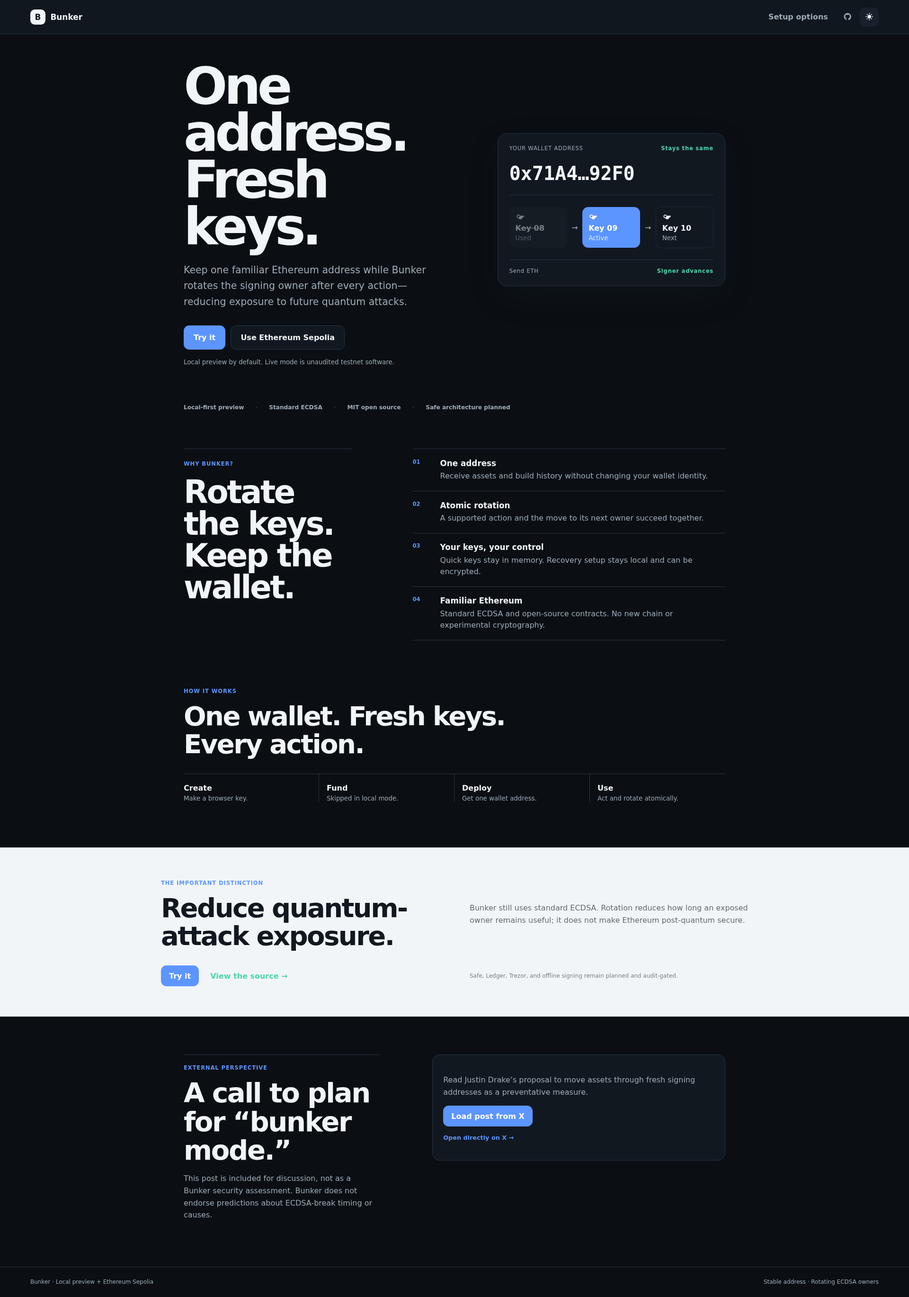
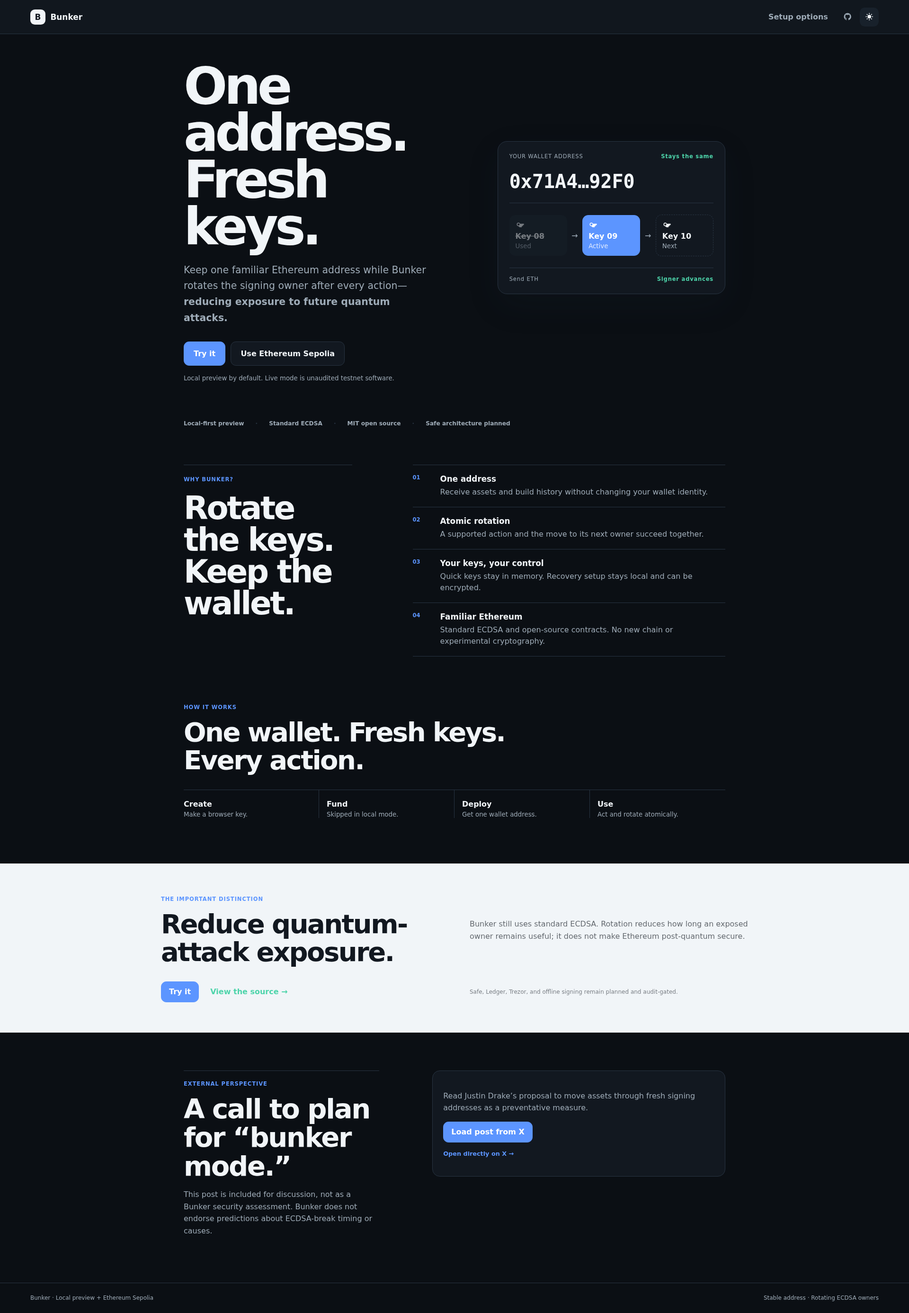
Compact wallet header and improve address copy

diff --git a/apps/web/src/styles.css b/apps/web/src/styles.css
@@ -1,1 +1,1 @@
-:root{font-family:ui-sans-serif,-apple-system,BlinkMacSystemFont,"Segoe UI",sans-serif;font-synthesis:none;color-scheme:light;background:#f5f7fa}*{box-sizing:border-box}body{margin:0}button,input,textarea{font:inherit}.site{--bg:#f5f7fa;--surface:#fff;--soft:#eef2f6;--line:#dce2e9;--text:#101820;--muted:#63707c;--accent:#146bff;--mint:#18b889;--ink:#fff;min-height:100vh;background:var(--bg);color:var(--text)}.site.dark{--bg:#0b0f14;--surface:#121820;--soft:#18212b;--line:#283442;--text:#f1f5f8;--muted:#9eabb7;--accent:#5c95ff;--mint:#4dd4aa;--ink:#071018;color-scheme:dark}::selection{background:var(--accent);color:#fff}button{border:1px solid var(--line);background:var(--surface);color:var(--text);border-radius:.7rem;padding:.72rem 1rem;font-weight:650;cursor:pointer}button:hover:not(:disabled){border-color:var(--accent)}button:disabled{opacity:.48;cursor:not-allowed}button:focus-visible,input:focus-visible,textarea:focus-visible,a:focus-visible{outline:3px solid var(--accent);outline-offset:2px}.primary{background:var(--accent);border-color:var(--accent);color:#fff}.wide{width:100%;padding:.95rem}.top{height:72px;display:flex;align-items:center;padding:0 clamp(1rem,4vw,4rem);border-bottom:1px solid var(--line);background:color-mix(in srgb,var(--surface),transparent 8%);position:relative;z-index:2}.brand{border:0;background:transparent;padding:0;display:flex;align-items:center;gap:.65rem;font-size:1.06rem}.brand span{display:grid;place-items:center;width:32px;height:32px;border-radius:.6rem;background:var(--text);color:var(--surface);font-weight:900}.top nav{margin-left:auto;display:flex;align-items:center;gap:.35rem}.top nav button{border:0;background:transparent;color:var(--muted)}.top nav button:hover{color:var(--text);background:var(--soft)}.nav-icon{width:2.5rem;height:2.5rem;padding:0;border:1px solid transparent;border-radius:.65rem;display:grid;place-items:center;color:var(--muted);background:transparent}.nav-icon:hover{color:var(--text);background:var(--soft);border-color:var(--line)}.nav-icon svg{width:1.15rem;height:1.15rem;fill:currentColor}.toast{position:fixed;top:84px;left:50%;transform:translateX(-50%);z-index:10;background:var(--text);color:var(--surface);padding:.75rem 1rem;border-radius:2rem;box-shadow:0 12px 35px rgba(0,0,0,.16);font-size:.86rem;max-width:calc(100vw - 2rem)}main{min-height:calc(100vh - 136px)}.hero-new{max-width:1240px;margin:auto;padding:clamp(1rem,2.5vw,2.5rem) clamp(1rem,4vw,3rem) 5rem;display:grid;grid-template-columns:1fr .9fr;gap:clamp(3rem,8vw,8rem);align-items:center}.status-dot{display:inline-flex;align-items:center;gap:.45rem;color:var(--mint);font-size:.78rem;font-weight:750;text-transform:uppercase;letter-spacing:.08em}.status-dot:before{content:"";width:7px;height:7px;border-radius:50%;background:var(--mint)}h1,h2,p{margin-top:0}.hero-copy h1{font-size:clamp(3.5rem,7vw,6.8rem);line-height:.91;letter-spacing:-.065em;margin:1.25rem 0 1.6rem;max-width:10ch}.hero-copy>p{font-size:clamp(1.05rem,1.6vw,1.28rem);line-height:1.65;color:var(--muted);max-width:590px}.hero-actions,.secure-actions,.setup-actions{display:flex;gap:.7rem;flex-wrap:wrap;margin:2rem 0 1rem}.hero-actions button{padding:.95rem 1.25rem}.hero-copy>small{color:var(--muted)}.mechanism{background:var(--surface);border:1px solid var(--line);border-radius:1.25rem;padding:1.5rem;box-shadow:0 24px 70px rgba(34,51,68,.1)}.address-head,.action-line{display:flex;justify-content:space-between;gap:1rem;font-size:.72rem;color:var(--muted);letter-spacing:.07em}.address-head b,.action-line b{color:var(--mint)}.mechanism>code{display:block;font:700 clamp(1.5rem,3vw,2.5rem)/1 ui-monospace,SFMono-Regular,monospace;padding:1.6rem 0;border-bottom:1px solid var(--line)}.key-track{display:grid;grid-template-columns:1fr auto 1fr auto 1fr;align-items:center;gap:.6rem;padding:1.5rem 0}.key{display:grid;gap:.25rem;padding:.8rem;border-radius:.8rem;background:var(--soft)}.key svg{width:20px;fill:currentColor}.key span{font-weight:750}.key small{color:var(--muted)}.key.spent{opacity:.45}.key.spent span{text-decoration:line-through}.key.active{background:var(--accent);color:#fff}.key.active small{color:#dfeaff}.key.next{border:1px dashed var(--line);background:transparent}.key-track>i{font-style:normal;color:var(--muted)}.action-line{padding-top:1rem;border-top:1px solid var(--line)}.button-link{display:inline-flex;align-items:center;border:1px solid var(--line);background:var(--surface);color:var(--text);border-radius:.7rem;padding:.95rem 1.25rem;font-weight:650;text-decoration:none}.button-link:hover{border-color:var(--accent)}.trust-line{max-width:1240px;margin:auto;padding:0 clamp(1rem,4vw,3rem) 5rem;display:flex;gap:1.5rem;flex-wrap:wrap;color:var(--muted);font-size:.76rem;font-weight:700}.trust-line span+span:before{content:"·";margin-right:1.5rem;color:var(--line)}.why{max-width:1240px;margin:auto;padding:0 clamp(1rem,4vw,3rem) 6rem;display:grid;grid-template-columns:.7fr 1.3fr;gap:clamp(3rem,8vw,8rem)}.why-head{border-top:1px solid var(--line);padding-top:1.2rem}.why-head>span,.roadmap span{color:var(--accent);font-size:.72rem;font-weight:750;text-transform:uppercase;letter-spacing:.08em}.why-head h2{font-size:clamp(2.2rem,4vw,4.2rem);line-height:1;letter-spacing:-.05em;margin:1.2rem 0}.why-list{border-top:1px solid var(--line)}.why-list article{display:grid;grid-template-columns:42px 1fr;gap:1rem;padding:1.2rem 0;border-bottom:1px solid var(--line)}.why-list article>b{color:var(--accent);font-size:.72rem}.why-list h3{margin:0 0 .35rem;font-size:1.05rem}.why-list p{margin:0;color:var(--muted);line-height:1.5}.flow{max-width:1240px;margin:auto;padding:0 clamp(1rem,4vw,3rem) 6rem}.flow>span{color:var(--accent);font-size:.72rem;font-weight:750;text-transform:uppercase;letter-spacing:.08em}.flow h2{font-size:clamp(2rem,4vw,3.5rem);line-height:1.05;letter-spacing:-.045em;margin:1rem 0 2rem}.flow ol{list-style:none;margin:0;padding:0;display:grid;grid-template-columns:repeat(4,1fr);border-top:1px solid var(--line)}.flow li{padding:1.25rem 1rem 0 0;border-right:1px solid var(--line);display:grid;gap:.35rem}.flow li+li{padding-left:1rem}.flow li:last-child{border:0}.flow small{color:var(--muted)}.roadmap{background:var(--text);color:var(--surface);padding:4rem max(clamp(1rem,8vw,8rem),calc((100vw - 1240px)/2));display:grid;grid-template-columns:1fr 1fr;gap:2rem 4rem;align-items:center}.roadmap h2{font-size:clamp(2rem,4vw,3.5rem);line-height:1.05;letter-spacing:-.045em;margin:1rem 0 0}.roadmap p{color:color-mix(in srgb,var(--surface),transparent 35%);line-height:1.6;margin:0}.roadmap-links{display:flex;align-items:center;gap:1.5rem}.roadmap a{color:var(--mint);font-weight:750;text-decoration:none;white-space:nowrap}.roadmap>small{color:color-mix(in srgb,var(--surface),transparent 45%);grid-column:2;font-size:.75rem}.external-post{max-width:1240px;margin:auto;padding:5rem clamp(1rem,4vw,3rem);display:grid;grid-template-columns:.8fr 1.2fr;gap:clamp(3rem,8vw,7rem);align-items:start}.post-context{border-top:1px solid var(--line);padding-top:1rem}.post-context>span{color:var(--accent);font-size:.72rem;font-weight:750;text-transform:uppercase;letter-spacing:.08em}.post-context h2{font-size:clamp(2rem,4vw,3.6rem);line-height:1.05;letter-spacing:-.04em;margin:1rem 0}.post-context p,.post-embed p{color:var(--muted);line-height:1.6}.post-embed{min-height:14rem;background:var(--surface);border:1px solid var(--line);border-radius:1rem;padding:1.4rem;display:flex;flex-direction:column;align-items:flex-start;justify-content:center}.post-embed .twitter-tweet{margin:0 auto!important;width:100%!important}.post-link{margin-top:1rem;color:var(--accent);font-size:.8rem;font-weight:700;text-decoration:none}.setup,.advanced,.secure{width:min(720px,calc(100% - 2rem));margin:auto;padding:clamp(3rem,8vw,7rem) 0}.ephemeral-note{font-size:.8rem;color:var(--muted);border-left:1px solid var(--mint);padding-left:.8rem}.setup h1,.advanced h1,.secure h1{font-size:clamp(2.5rem,6vw,4.8rem);line-height:.98;letter-spacing:-.05em;margin:2rem 0 1rem}.stepper{display:grid;grid-template-columns:repeat(3,1fr);position:relative}.stepper:before{content:"";position:absolute;left:2rem;right:2rem;top:17px;height:1px;background:var(--line)}.stepper span{position:relative;display:grid;justify-items:center;gap:.5rem;color:var(--muted);font-size:.72rem}.stepper span:first-letter{background:var(--surface)}.stepper span b{font-size:.8rem}.stepper span.done{color:var(--mint)}.setup-address,.stable{margin:2rem 0;background:var(--surface);border:1px solid var(--line);border-radius:1rem;padding:1rem;display:grid;grid-template-columns:1fr auto;gap:.65rem;align-items:center}.setup-address span,.stable span{font-size:.75rem;color:var(--muted)}.setup-address code,.stable code{grid-column:1/2;overflow-wrap:anywhere;color:var(--accent)}.setup-address button{grid-row:1/3;grid-column:2}.balance-row{display:flex;justify-content:space-between;border-block:1px solid var(--line);padding:1.2rem 0}.setup-actions button{flex:1}.text-button,.back{border:0;background:transparent;color:var(--muted);padding-left:0}.wallet{max-width:1180px;margin:auto;padding:clamp(2.5rem,6vw,5rem) 1rem}.wallet-top{display:grid;grid-template-columns:1fr 340px;gap:2rem;align-items:end}.wallet-top h1{font-size:clamp(3.5rem,7vw,6rem);letter-spacing:-.06em;margin:1rem 0 .5rem}.address-copy{border:0;padding-left:0;background:transparent;color:var(--muted)}.spendable{display:block;color:var(--muted);margin-bottom:.6rem}.rotation-card{background:var(--text);color:var(--surface);padding:1.4rem;border-radius:1rem}.rotation-card>span{font-size:.68rem;letter-spacing:.1em}.rotation-card strong{display:block;font-size:2rem;margin:.5rem 0}.rotation-card p{color:color-mix(in srgb,var(--surface),transparent 35%);font-size:.8rem}.rotation-card>div{height:5px;background:color-mix(in srgb,var(--surface),transparent 80%);border-radius:5px}.rotation-card i{display:block;height:100%;background:var(--mint);border-radius:5px}.stable{grid-template-columns:1fr auto}.stable b{grid-row:1/3;grid-column:2;color:var(--mint);font-size:.75rem}.signer-sequence{margin:2rem 0;background:var(--surface);border:1px solid var(--line);border-radius:1rem;padding:1.15rem}.signer-sequence>div:first-child{display:flex;justify-content:space-between;gap:1rem}.signer-sequence span{font-weight:750}.signer-sequence small{color:var(--muted)}.signer-steps{display:grid;grid-template-columns:1fr auto 1fr auto 1fr;gap:.75rem;align-items:center;margin-top:1rem}.signer-steps>div{display:grid;gap:.35rem;padding:.8rem;border:1px solid var(--line);border-radius:.7rem}.signer-steps>.current{border-color:var(--accent);background:color-mix(in srgb,var(--accent),transparent 94%)}.signer-steps code{font-size:.8rem}.signer-steps i{font-style:normal;color:var(--muted)}.wallet-grid{display:grid;grid-template-columns:1.2fr .8fr;gap:2rem;margin-top:2rem}.actions-panel,.activity{background:var(--surface);border:1px solid var(--line);border-radius:1rem;padding:1.4rem}svg{width:18px;height:18px;fill:currentColor}.actions-panel h2,.activity h2{font-size:1.15rem;margin-bottom:.4rem}.history-intro{color:var(--muted);font-size:.82rem;line-height:1.45;margin:0 0 1rem}.actions-panel label{display:grid;gap:.45rem;margin:1rem 0;color:var(--muted);font-size:.78rem}.actions-panel input,.actions-panel textarea,.secure input,.secure textarea{width:100%;border:1px solid var(--line);background:var(--bg);color:var(--text);padding:.85rem;border-radius:.65rem}.split{display:grid;grid-template-columns:1fr 110px;gap:.7rem}.activity-row{display:grid;grid-template-columns:auto 1fr auto;gap:.8rem;align-items:start;padding:1rem 0;border-top:1px solid var(--line)}.activity-row>span{font-size:.65rem;background:var(--soft);padding:.3rem .45rem;border-radius:1rem;color:var(--muted)}.activity-row p{display:grid;gap:.25rem;margin:0}.activity-row code{font-size:.7rem;color:var(--muted);overflow-wrap:anywhere}.activity-row small{color:var(--muted)}.activity-row a{color:var(--accent);font-size:.75rem}.option-list{display:grid;margin-top:2.5rem;border-top:1px solid var(--line)}.option-list button{border:0;border-bottom:1px solid var(--line);border-radius:0;background:transparent;display:grid;grid-template-columns:1fr auto;text-align:left;padding:1.2rem 0}.option-list button span{font-size:1rem}.option-list button small{grid-row:2;color:var(--muted);font-weight:400}.option-list button b{grid-row:1/3;grid-column:2;align-self:center;color:var(--accent)}.words{list-style:none;display:grid;grid-template-columns:repeat(4,1fr);gap:1px;background:var(--line);padding:1px;margin:2rem 0}.words li{background:var(--surface);padding:.8rem;font-weight:700}.words span{display:block;color:var(--muted);font-size:.65rem}.check{display:flex;gap:.6rem;align-items:center;color:var(--muted)}.check input{width:auto}.confirm{display:grid;grid-template-columns:repeat(3,1fr);gap:.7rem}.secure label{display:grid;gap:.45rem;margin:1rem 0;color:var(--muted);font-size:.8rem}footer{height:64px;border-top:1px solid var(--line);display:flex;justify-content:space-between;align-items:center;padding:0 clamp(1rem,4vw,4rem);color:var(--muted);font-size:.75rem}@media(max-width:760px){.top{height:64px}.top nav>button:not(.nav-icon):not(.nav-exit){display:none}.hero-new{grid-template-columns:1fr;padding-top:1rem;gap:3rem}.hero-copy h1{font-size:3.8rem}.hero-actions{display:grid}.mechanism{padding:1rem}.key-track{gap:.3rem}.key{padding:.55rem}.key-track>i{display:none}.trust-line{display:grid;grid-template-columns:1fr 1fr;gap:.65rem 1rem}.trust-line span+span:before{content:none}.why{grid-template-columns:1fr;gap:1.5rem}.flow ol{grid-template-columns:1fr 1fr}.flow li{border-bottom:1px solid var(--line);border-right:0;padding:1rem 0}.flow li+li{padding-left:0}.roadmap{grid-template-columns:1fr;gap:1.5rem}.roadmap a{white-space:normal}.roadmap>small{grid-column:1}.external-post{grid-template-columns:1fr;gap:1.5rem;padding-top:4rem;padding-bottom:4rem}.post-embed{min-height:12rem}.wallet-top,.wallet-grid{grid-template-columns:1fr}.signer-sequence>div:first-child{display:grid}.signer-steps{grid-template-columns:1fr}.signer-steps i{transform:rotate(90deg);justify-self:center}.stable{grid-template-columns:1fr}.stable b{grid-row:auto;grid-column:1}.words{grid-template-columns:repeat(3,1fr)}.confirm{grid-template-columns:1fr}.setup-actions,.secure-actions{display:grid}.toast{top:72px}}@media(prefers-reduced-motion:reduce){*{scroll-behavior:auto!important;transition:none!important}}
+:root{font-family:ui-sans-serif,-apple-system,BlinkMacSystemFont,"Segoe UI",sans-serif;font-synthesis:none;color-scheme:light;background:#f5f7fa}*{box-sizing:border-box}body{margin:0}button,input,textarea{font:inherit}.site{--bg:#f5f7fa;--surface:#fff;--soft:#eef2f6;--line:#dce2e9;--text:#101820;--muted:#63707c;--accent:#146bff;--mint:#18b889;--ink:#fff;min-height:100vh;background:var(--bg);color:var(--text)}.site.dark{--bg:#0b0f14;--surface:#121820;--soft:#18212b;--line:#283442;--text:#f1f5f8;--muted:#9eabb7;--accent:#5c95ff;--mint:#4dd4aa;--ink:#071018;color-scheme:dark}::selection{background:var(--accent);color:#fff}button{border:1px solid var(--line);background:var(--surface);color:var(--text);border-radius:.7rem;padding:.72rem 1rem;font-weight:650;cursor:pointer}button:hover:not(:disabled){border-color:var(--accent)}button:disabled{opacity:.48;cursor:not-allowed}button:focus-visible,input:focus-visible,textarea:focus-visible,a:focus-visible{outline:3px solid var(--accent);outline-offset:2px}.primary{background:var(--accent);border-color:var(--accent);color:#fff}.wide{width:100%;padding:.95rem}.top{height:72px;display:flex;align-items:center;padding:0 clamp(1rem,4vw,4rem);border-bottom:1px solid var(--line);background:color-mix(in srgb,var(--surface),transparent 8%);position:relative;z-index:2}.brand{border:0;background:transparent;padding:0;display:flex;align-items:center;gap:.65rem;font-size:1.06rem}.brand span{display:grid;place-items:center;width:32px;height:32px;border-radius:.6rem;background:var(--text);color:var(--surface);font-weight:900}.top nav{margin-left:auto;display:flex;align-items:center;gap:.35rem}.top nav button{border:0;background:transparent;color:var(--muted)}.top nav button:hover{color:var(--text);background:var(--soft)}.nav-icon{width:2.5rem;height:2.5rem;padding:0;border:1px solid transparent;border-radius:.65rem;display:grid;place-items:center;color:var(--muted);background:transparent}.nav-icon:hover{color:var(--text);background:var(--soft);border-color:var(--line)}.nav-icon svg{width:1.15rem;height:1.15rem;fill:currentColor}.toast{position:fixed;top:84px;left:50%;transform:translateX(-50%);z-index:10;background:var(--text);color:var(--surface);padding:.75rem 1rem;border-radius:2rem;box-shadow:0 12px 35px rgba(0,0,0,.16);font-size:.86rem;max-width:calc(100vw - 2rem)}main{min-height:calc(100vh - 136px)}.hero-new{max-width:1240px;margin:auto;padding:clamp(1rem,2.5vw,2.5rem) clamp(1rem,4vw,3rem) 5rem;display:grid;grid-template-columns:1fr .9fr;gap:clamp(3rem,8vw,8rem);align-items:center}.status-dot{display:inline-flex;align-items:center;gap:.45rem;color:var(--mint);font-size:.78rem;font-weight:750;text-transform:uppercase;letter-spacing:.08em}.status-dot:before{content:"";width:7px;height:7px;border-radius:50%;background:var(--mint)}h1,h2,p{margin-top:0}.hero-copy h1{font-size:clamp(3.5rem,7vw,6.8rem);line-height:.91;letter-spacing:-.065em;margin:1.25rem 0 1.6rem;max-width:10ch}.hero-copy>p{font-size:clamp(1.05rem,1.6vw,1.28rem);line-height:1.65;color:var(--muted);max-width:590px}.hero-actions,.secure-actions,.setup-actions{display:flex;gap:.7rem;flex-wrap:wrap;margin:2rem 0 1rem}.hero-actions button{padding:.95rem 1.25rem}.hero-copy>small{color:var(--muted)}.mechanism{background:var(--surface);border:1px solid var(--line);border-radius:1.25rem;padding:1.5rem;box-shadow:0 24px 70px rgba(34,51,68,.1)}.address-head,.action-line{display:flex;justify-content:space-between;gap:1rem;font-size:.72rem;color:var(--muted);letter-spacing:.07em}.address-head b,.action-line b{color:var(--mint)}.mechanism>code{display:block;font:700 clamp(1.5rem,3vw,2.5rem)/1 ui-monospace,SFMono-Regular,monospace;padding:1.6rem 0;border-bottom:1px solid var(--line)}.key-track{display:grid;grid-template-columns:1fr auto 1fr auto 1fr;align-items:center;gap:.6rem;padding:1.5rem 0}.key{display:grid;gap:.25rem;padding:.8rem;border-radius:.8rem;background:var(--soft)}.key svg{width:20px;fill:currentColor}.key span{font-weight:750}.key small{color:var(--muted)}.key.spent{opacity:.45}.key.spent span{text-decoration:line-through}.key.active{background:var(--accent);color:#fff}.key.active small{color:#dfeaff}.key.next{border:1px dashed var(--line);background:transparent}.key-track>i{font-style:normal;color:var(--muted)}.action-line{padding-top:1rem;border-top:1px solid var(--line)}.button-link{display:inline-flex;align-items:center;border:1px solid var(--line);background:var(--surface);color:var(--text);border-radius:.7rem;padding:.95rem 1.25rem;font-weight:650;text-decoration:none}.button-link:hover{border-color:var(--accent)}.trust-line{max-width:1240px;margin:auto;padding:0 clamp(1rem,4vw,3rem) 5rem;display:flex;gap:1.5rem;flex-wrap:wrap;color:var(--muted);font-size:.76rem;font-weight:700}.trust-line span+span:before{content:"·";margin-right:1.5rem;color:var(--line)}.why{max-width:1240px;margin:auto;padding:0 clamp(1rem,4vw,3rem) 6rem;display:grid;grid-template-columns:.7fr 1.3fr;gap:clamp(3rem,8vw,8rem)}.why-head{border-top:1px solid var(--line);padding-top:1.2rem}.why-head>span,.roadmap span{color:var(--accent);font-size:.72rem;font-weight:750;text-transform:uppercase;letter-spacing:.08em}.why-head h2{font-size:clamp(2.2rem,4vw,4.2rem);line-height:1;letter-spacing:-.05em;margin:1.2rem 0}.why-list{border-top:1px solid var(--line)}.why-list article{display:grid;grid-template-columns:42px 1fr;gap:1rem;padding:1.2rem 0;border-bottom:1px solid var(--line)}.why-list article>b{color:var(--accent);font-size:.72rem}.why-list h3{margin:0 0 .35rem;font-size:1.05rem}.why-list p{margin:0;color:var(--muted);line-height:1.5}.flow{max-width:1240px;margin:auto;padding:0 clamp(1rem,4vw,3rem) 6rem}.flow>span{color:var(--accent);font-size:.72rem;font-weight:750;text-transform:uppercase;letter-spacing:.08em}.flow h2{font-size:clamp(2rem,4vw,3.5rem);line-height:1.05;letter-spacing:-.045em;margin:1rem 0 2rem}.flow ol{list-style:none;margin:0;padding:0;display:grid;grid-template-columns:repeat(4,1fr);border-top:1px solid var(--line)}.flow li{padding:1.25rem 1rem 0 0;border-right:1px solid var(--line);display:grid;gap:.35rem}.flow li+li{padding-left:1rem}.flow li:last-child{border:0}.flow small{color:var(--muted)}.roadmap{background:var(--text);color:var(--surface);padding:4rem max(clamp(1rem,8vw,8rem),calc((100vw - 1240px)/2));display:grid;grid-template-columns:1fr 1fr;gap:2rem 4rem;align-items:center}.roadmap h2{font-size:clamp(2rem,4vw,3.5rem);line-height:1.05;letter-spacing:-.045em;margin:1rem 0 0}.roadmap p{color:color-mix(in srgb,var(--surface),transparent 35%);line-height:1.6;margin:0}.roadmap-links{display:flex;align-items:center;gap:1.5rem}.roadmap a{color:var(--mint);font-weight:750;text-decoration:none;white-space:nowrap}.roadmap>small{color:color-mix(in srgb,var(--surface),transparent 45%);grid-column:2;font-size:.75rem}.external-post{max-width:1240px;margin:auto;padding:5rem clamp(1rem,4vw,3rem);display:grid;grid-template-columns:.8fr 1.2fr;gap:clamp(3rem,8vw,7rem);align-items:start}.post-context{border-top:1px solid var(--line);padding-top:1rem}.post-context>span{color:var(--accent);font-size:.72rem;font-weight:750;text-transform:uppercase;letter-spacing:.08em}.post-context h2{font-size:clamp(2rem,4vw,3.6rem);line-height:1.05;letter-spacing:-.04em;margin:1rem 0}.post-context p,.post-embed p{color:var(--muted);line-height:1.6}.post-embed{min-height:14rem;background:var(--surface);border:1px solid var(--line);border-radius:1rem;padding:1.4rem;display:flex;flex-direction:column;align-items:flex-start;justify-content:center}.post-embed .twitter-tweet{margin:0 auto!important;width:100%!important}.post-link{margin-top:1rem;color:var(--accent);font-size:.8rem;font-weight:700;text-decoration:none}.setup,.advanced,.secure{width:min(720px,calc(100% - 2rem));margin:auto;padding:clamp(3rem,8vw,7rem) 0}.ephemeral-note{font-size:.8rem;color:var(--muted);border-left:1px solid var(--mint);padding-left:.8rem}.setup h1,.advanced h1,.secure h1{font-size:clamp(2.5rem,6vw,4.8rem);line-height:.98;letter-spacing:-.05em;margin:2rem 0 1rem}.stepper{display:grid;grid-template-columns:repeat(3,1fr);position:relative}.stepper:before{content:"";position:absolute;left:2rem;right:2rem;top:17px;height:1px;background:var(--line)}.stepper span{position:relative;display:grid;justify-items:center;gap:.5rem;color:var(--muted);font-size:.72rem}.stepper span:first-letter{background:var(--surface)}.stepper span b{font-size:.8rem}.stepper span.done{color:var(--mint)}.setup-address,.stable{margin:2rem 0;background:var(--surface);border:1px solid var(--line);border-radius:1rem;padding:1rem;display:grid;grid-template-columns:1fr auto;gap:.65rem;align-items:center}.setup-address span,.stable span{font-size:.75rem;color:var(--muted)}.setup-address code,.stable-copy{grid-column:1/2;min-width:0;padding:0;border:0;background:transparent;display:flex;align-items:center;gap:.65rem;text-align:left;color:var(--accent)}.stable-copy:hover code{color:var(--text)}.stable-copy code{overflow-wrap:anywhere;color:inherit}.stable-copy span{flex:none;color:var(--muted);font:700 .7rem/1 system-ui;text-transform:uppercase;letter-spacing:.06em}.setup-address button{grid-row:1/3;grid-column:2}.balance-row{display:flex;justify-content:space-between;border-block:1px solid var(--line);padding:1.2rem 0}.setup-actions button{flex:1}.text-button,.back{border:0;background:transparent;color:var(--muted);padding-left:0}.wallet{max-width:1180px;margin:auto;padding:clamp(.75rem,2.5vw,2rem) 1rem}.wallet-top{display:grid;grid-template-columns:1fr 340px;gap:2rem;align-items:end}.wallet-top h1{font-size:clamp(3.5rem,7vw,6rem);letter-spacing:-.06em;margin:1rem 0 .5rem}.rotation-card{background:var(--text);color:var(--surface);padding:1.4rem;border-radius:1rem}.rotation-card>span{font-size:.68rem;letter-spacing:.1em}.rotation-card strong{display:block;font-size:2rem;margin:.5rem 0}.rotation-card p{color:color-mix(in srgb,var(--surface),transparent 35%);font-size:.8rem}.rotation-card>div{height:5px;background:color-mix(in srgb,var(--surface),transparent 80%);border-radius:5px}.rotation-card i{display:block;height:100%;background:var(--mint);border-radius:5px}.stable{grid-template-columns:1fr auto}.stable b{grid-row:1/3;grid-column:2;color:var(--mint);font-size:.75rem}.signer-sequence{margin:2rem 0;background:var(--surface);border:1px solid var(--line);border-radius:1rem;padding:1.15rem}.signer-sequence>div:first-child{display:flex;justify-content:space-between;gap:1rem}.signer-sequence span{font-weight:750}.signer-sequence small{color:var(--muted)}.signer-steps{display:grid;grid-template-columns:1fr auto 1fr auto 1fr;gap:.75rem;align-items:center;margin-top:1rem}.signer-steps>div{display:grid;gap:.35rem;padding:.8rem;border:1px solid var(--line);border-radius:.7rem}.signer-steps>.current{border-color:var(--accent);background:color-mix(in srgb,var(--accent),transparent 94%)}.signer-steps code{font-size:.8rem}.signer-steps i{font-style:normal;color:var(--muted)}.wallet-grid{display:grid;grid-template-columns:1.2fr .8fr;gap:2rem;margin-top:2rem}.actions-panel,.activity{background:var(--surface);border:1px solid var(--line);border-radius:1rem;padding:1.4rem}svg{width:18px;height:18px;fill:currentColor}.actions-panel h2,.activity h2{font-size:1.15rem;margin-bottom:.4rem}.history-intro{color:var(--muted);font-size:.82rem;line-height:1.45;margin:0 0 1rem}.actions-panel label{display:grid;gap:.45rem;margin:1rem 0;color:var(--muted);font-size:.78rem}.actions-panel input,.actions-panel textarea,.secure input,.secure textarea{width:100%;border:1px solid var(--line);background:var(--bg);color:var(--text);padding:.85rem;border-radius:.65rem}.split{display:grid;grid-template-columns:1fr 110px;gap:.7rem}.activity-row{display:grid;grid-template-columns:auto 1fr auto;gap:.8rem;align-items:start;padding:1rem 0;border-top:1px solid var(--line)}.activity-row>span{font-size:.65rem;background:var(--soft);padding:.3rem .45rem;border-radius:1rem;color:var(--muted)}.activity-row p{display:grid;gap:.25rem;margin:0}.activity-row code{font-size:.7rem;color:var(--muted);overflow-wrap:anywhere}.activity-row small{color:var(--muted)}.activity-row a{color:var(--accent);font-size:.75rem}.option-list{display:grid;margin-top:2.5rem;border-top:1px solid var(--line)}.option-list button{border:0;border-bottom:1px solid var(--line);border-radius:0;background:transparent;display:grid;grid-template-columns:1fr auto;text-align:left;padding:1.2rem 0}.option-list button span{font-size:1rem}.option-list button small{grid-row:2;color:var(--muted);font-weight:400}.option-list button b{grid-row:1/3;grid-column:2;align-self:center;color:var(--accent)}.words{list-style:none;display:grid;grid-template-columns:repeat(4,1fr);gap:1px;background:var(--line);padding:1px;margin:2rem 0}.words li{background:var(--surface);padding:.8rem;font-weight:700}.words span{display:block;color:var(--muted);font-size:.65rem}.check{display:flex;gap:.6rem;align-items:center;color:var(--muted)}.check input{width:auto}.confirm{display:grid;grid-template-columns:repeat(3,1fr);gap:.7rem}.secure label{display:grid;gap:.45rem;margin:1rem 0;color:var(--muted);font-size:.8rem}footer{height:64px;border-top:1px solid var(--line);display:flex;justify-content:space-between;align-items:center;padding:0 clamp(1rem,4vw,4rem);color:var(--muted);font-size:.75rem}@media(max-width:760px){.top{height:64px}.top nav>button:not(.nav-icon):not(.nav-exit){display:none}.hero-new{grid-template-columns:1fr;padding-top:1rem;gap:3rem}.hero-copy h1{font-size:3.8rem}.hero-actions{display:grid}.mechanism{padding:1rem}.key-track{gap:.3rem}.key{padding:.55rem}.key-track>i{display:none}.trust-line{display:grid;grid-template-columns:1fr 1fr;gap:.65rem 1rem}.trust-line span+span:before{content:none}.why{grid-template-columns:1fr;gap:1.5rem}.flow ol{grid-template-columns:1fr 1fr}.flow li{border-bottom:1px solid var(--line);border-right:0;padding:1rem 0}.flow li+li{padding-left:0}.roadmap{grid-template-columns:1fr;gap:1.5rem}.roadmap a{white-space:normal}.roadmap>small{grid-column:1}.external-post{grid-template-columns:1fr;gap:1.5rem;padding-top:4rem;padding-bottom:4rem}.post-embed{min-height:12rem}.wallet-top,.wallet-grid{grid-template-columns:1fr}.signer-sequence>div:first-child{display:grid}.signer-steps{grid-template-columns:1fr}.signer-steps i{transform:rotate(90deg);justify-self:center}.stable{grid-template-columns:1fr}.stable b{grid-row:auto;grid-column:1}.words{grid-template-columns:repeat(3,1fr)}.confirm{grid-template-columns:1fr}.setup-actions,.secure-actions{display:grid}.toast{top:72px}}@media(prefers-reduced-motion:reduce){*{scroll-behavior:auto!important;transition:none!important}}

diff --git a/apps/web/src/App.tsx b/apps/web/src/App.tsx
@@ -34,9 +34,9 @@ export default function App(){
  onCleanup(()=>{wipe();clearEphemeralBurner()});
  return <div class={`site ${theme()}`}><header class="top"><button class="brand" onClick={()=>go(walletAddress()?"wallet":"landing")}><span>B</span>Bunker</button><nav><Show when={walletAddress()}><button onClick={()=>go("wallet")}>Wallet</button></Show><button onClick={()=>go("advanced")}>Setup options</button><a class="nav-icon" href="https://github.com/SilentCicero/bunker-wallet" target="_blank" rel="noreferrer" aria-label="View Bunker on GitHub"><NavIcon name="github"/></a><button class="nav-icon" aria-label={theme()==="light"?"Use dark mode":"Use light mode"} title={theme()==="light"?"Use dark mode":"Use light mode"} onClick={()=>setTheme(theme()==="light"?"dark":"light")}><NavIcon name={theme()==="light"?"moon":"sun"}/></button><Show when={walletAddress()}><button class="nav-exit" onClick={exit}>Exit</button></Show></nav></header><Show when={notice()}><div class="toast" role="status">{notice()}</div></Show>
  <main>
- <Show when={view()==="landing"}><section class="hero-new"><div class="hero-copy"><h1>One address.<br/>Fresh keys.</h1><p>Keep one familiar Ethereum address while Bunker rotates the signing owner after every action—reducing exposure to future quantum attacks.</p><div class="hero-actions"><button class="primary" onClick={begin}>Try it</button><button class="button-link" onClick={beginSepolia}>Use Ethereum Sepolia</button></div><small>Local preview by default. Live mode is unaudited testnet software.</small></div><div class="mechanism" aria-label="Stable wallet address with rotating owner keys"><div class="address-head"><span>YOUR WALLET ADDRESS</span><b>Stays the same</b></div><code>0x71A4…92F0</code><div class="key-track"><div class="key spent"><Icon/><span>Key 08</span><small>Used</small></div><i>→</i><div class="key active"><Icon/><span>Key 09</span><small>Active</small></div><i>→</i><div class="key next"><Icon/><span>Key 10</span><small>Next</small></div></div><div class="action-line"><span>Send ETH</span><b>Signer advances</b></div></div></section><div class="trust-line"><span>Local-first preview</span><span>Standard ECDSA</span><span>MIT open source</span><span>Safe architecture planned</span></div><section class="why" id="how-it-works"><div class="why-head"><span>Why Bunker?</span><h2>Rotate the keys.<br/>Keep the wallet.</h2></div><div class="why-list"><article><b>01</b><div><h3>One address</h3><p>Receive assets and build history without changing your wallet identity.</p></div></article><article><b>02</b><div><h3>Atomic rotation</h3><p>A supported action and the move to its next owner succeed together.</p></div></article><article><b>03</b><div><h3>Your keys, your control</h3><p>Quick keys stay in memory. Recovery setup stays local and can be encrypted.</p></div></article><article><b>04</b><div><h3>Familiar Ethereum</h3><p>Standard ECDSA and open-source contracts. No new chain or experimental cryptography.</p></div></article></div></section><section class="flow"><span>How it works</span><h2>One wallet. Fresh keys.<br/>Every action.</h2><ol><li><b>Create</b><small>Make a browser key.</small></li><li><b>Fund</b><small>Skipped in local mode.</small></li><li><b>Deploy</b><small>Get one wallet address.</small></li><li><b>Use</b><small>Act and rotate atomically.</small></li></ol></section><section class="roadmap"><div><span>The important distinction</span><h2>Reduce quantum-<br/>attack exposure.</h2></div><p>Bunker still uses standard ECDSA. Rotation reduces how long an exposed owner remains useful; it does not make Ethereum post-quantum secure.</p><div class="roadmap-links"><button class="primary" onClick={begin}>Try it</button><a href="https://github.com/SilentCicero/bunker-wallet" target="_blank" rel="noreferrer">View the source →</a></div><small>Safe, Ledger, Trezor, and offline signing remain planned and audit-gated.</small></section><section class="external-post"><div class="post-context"><span>External perspective</span><h2>A call to plan for “bunker mode.”</h2><p>This post is included for discussion, not as a Bunker security assessment. Bunker does not endorse predictions about ECDSA-break timing or causes.</p></div><div class="post-embed"><Show when={tweetLoaded()} fallback={<><p>Read Justin Drake’s proposal to move assets through fresh signing addresses as a preventative measure.</p><button class="primary" onClick={loadPost}>Load post from X</button></>}><blockquote class="twitter-tweet" data-dnt="true"><a href="https://x.com/drakefjustin/status/2107837081313505768">Read the post by Justin Drake on X</a></blockquote></Show><a class="post-link" href="https://x.com/drakefjustin/status/2107837081313505768" target="_blank" rel="noreferrer">Open directly on X →</a></div></section></Show>
+ <Show when={view()==="landing"}><section class="hero-new"><div class="hero-copy"><h1>One address.<br/>Fresh keys.</h1><p>Keep one familiar Ethereum address while Bunker rotates the signing owner after every action—<strong>reducing exposure to future quantum attacks.</strong></p><div class="hero-actions"><button class="primary" onClick={begin}>Try it</button><button class="button-link" onClick={beginSepolia}>Use Ethereum Sepolia</button></div><small>Local preview by default. Live mode is unaudited testnet software.</small></div><div class="mechanism" aria-label="Stable wallet address with rotating owner keys"><div class="address-head"><span>YOUR WALLET ADDRESS</span><b>Stays the same</b></div><code>0x71A4…92F0</code><div class="key-track"><div class="key spent"><Icon/><span>Key 08</span><small>Used</small></div><i>→</i><div class="key active"><Icon/><span>Key 09</span><small>Active</small></div><i>→</i><div class="key next"><Icon/><span>Key 10</span><small>Next</small></div></div><div class="action-line"><span>Send ETH</span><b>Signer advances</b></div></div></section><div class="trust-line"><span>Local-first preview</span><span>Standard ECDSA</span><span>MIT open source</span><span>Safe architecture planned</span></div><section class="why" id="how-it-works"><div class="why-head"><span>Why Bunker?</span><h2>Rotate the keys.<br/>Keep the wallet.</h2></div><div class="why-list"><article><b>01</b><div><h3>One address</h3><p>Receive assets and build history without changing your wallet identity.</p></div></article><article><b>02</b><div><h3>Atomic rotation</h3><p>A supported action and the move to its next owner succeed together.</p></div></article><article><b>03</b><div><h3>Your keys, your control</h3><p>Quick keys stay in memory. Recovery setup stays local and can be encrypted.</p></div></article><article><b>04</b><div><h3>Familiar Ethereum</h3><p>Standard ECDSA and open-source contracts. No new chain or experimental cryptography.</p></div></article></div></section><section class="flow"><span>How it works</span><h2>One wallet. Fresh keys.<br/>Every action.</h2><ol><li><b>Create</b><small>Make a browser key.</small></li><li><b>Fund</b><small>Skipped in local mode.</small></li><li><b>Deploy</b><small>Get one wallet address.</small></li><li><b>Use</b><small>Act and rotate atomically.</small></li></ol></section><section class="roadmap"><div><span>The important distinction</span><h2>Reduce quantum-<br/>attack exposure.</h2></div><p>Bunker still uses standard ECDSA. Rotation reduces how long an exposed owner remains useful; it does not make Ethereum post-quantum secure.</p><div class="roadmap-links"><button class="primary" onClick={begin}>Try it</button><a href="https://github.com/SilentCicero/bunker-wallet" target="_blank" rel="noreferrer">View the source →</a></div><small>Safe, Ledger, Trezor, and offline signing remain planned and audit-gated.</small></section><section class="external-post"><div class="post-context"><span>External perspective</span><h2>A call to plan for “bunker mode.”</h2><p>This post is included for discussion, not as a Bunker security assessment. Bunker does not endorse predictions about ECDSA-break timing or causes.</p></div><div class="post-embed"><Show when={tweetLoaded()} fallback={<><p>Read Justin Drake’s proposal to move assets through fresh signing addresses as a preventative measure.</p><button class="primary" onClick={loadPost}>Load post from X</button></>}><blockquote class="twitter-tweet" data-dnt="true"><a href="https://x.com/drakefjustin/status/2107837081313505768">Read the post by Justin Drake on X</a></blockquote></Show><a class="post-link" href="https://x.com/drakefjustin/status/2107837081313505768" target="_blank" rel="noreferrer">Open directly on X →</a></div></section></Show>
  <Show when={view()==="setup"}><section class="setup"><div class="stepper"><span class="done">1 <b>Key</b></span><span classList={{done:mode()==="local"||setupBalance()>=parseEther("0.007")}}>2 <b>{mode()==="local"?"Ready":"Fund"}</b></span><span classList={{done:Boolean(walletAddress())}}>3 <b>Create</b></span></div><h1>{mode()==="local"?"Your local preview is ready.":setupBalance()>=parseEther("0.007")?"Create your stable wallet.":"Add Ethereum Sepolia test ETH."}</h1><p>{mode()==="local"?"No faucet, wallet connection, or blockchain transaction. Everything stays in this tab.":setupBalance()>=parseEther("0.007")?"Your setup key is funded. Create the wallet contract and move the test ETH into its permanent address.":"Your temporary setup address is ready and copied when you open the faucet."}</p><Show when={!recoverable()}><p class="ephemeral-note">Quick setup is memory-only. Do not refresh during funding or after wallet creation. Use Recovery phrase setup if you want restoration later.</p></Show><div class="setup-address"><span>Setup address</span><code>{setupAddress()}</code><button onClick={()=>copy(setupAddress())}>Copy</button></div><div class="balance-row"><span>{mode()==="local"?"Preview balance":"Setup balance"}</span><strong>{Number(formatEther(setupBalance())).toFixed(4)} ETH</strong></div><Show when={mode()==="local"||setupBalance()>=parseEther("0.007")} fallback={<div class="setup-actions"><button class="primary" onClick={openFaucet}>Open Google Cloud faucet</button><button onClick={checkFunding} disabled={Boolean(busy())}>{busy()||"I funded it — check balance"}</button></div>}><button class="primary wide" onClick={createStableWallet} disabled={Boolean(busy())}>{busy()||"Create stable wallet"}</button></Show><button class="text-button" onClick={()=>go("advanced")}>Use another setup method</button></section></Show>
- <Show when={view()==="wallet"&&walletAddress()}><section class="wallet"><div class="wallet-top"><div><span class="status-dot">{mode()==="local"?"Local preview · simulated, not broadcast":"Ethereum Sepolia · live"}</span><h1>{Number(formatEther(walletBalance())).toFixed(4)} ETH</h1><small class="spendable">Keep 0.001 ETH for the next owner key on every action.</small><button class="address-copy" onClick={()=>copy(walletAddress())}>{short(walletAddress()!)} · Copy</button></div><div class="rotation-card"><span>OWNER ROTATION</span><strong>Key {rotation()+1}</strong><p>Active underneath your stable address</p><div><i style={{width:`${Math.min(100,(rotation()+1)*8)}%`}}/></div></div></div><div class="stable"><span>Stable wallet address</span><code>{walletAddress()}</code><b>Does not change</b></div><Show when={mode()==="local"}><section class="signer-sequence"><div><span>Preview signing sequence</span><small>Simulated locally · wallet address stays fixed</small></div><div class="signer-steps"><div><small>Last signer</small><code>{activity()[0]?.usedSigner?short(activity()[0]?.usedSigner!):"—"}</code></div><i>→</i><div class="current"><small>Active signer · Key {rotation()+1}</small><code>{owner()&&short(owner()!)}</code></div><i>→</i><div><small>Next signer · Key {rotation()+2}</small><code>{nextSigner()&&short(nextSigner()!)}</code></div></div></section></Show><div class="wallet-grid"><section class="actions-panel"><h2>Send ETH</h2><label>Recipient<input ref={to} value={mode()==="local"?"justindrake.eth":""} placeholder={mode()==="local"?"justindrake.eth":"0x…"}/></label><label>Amount<input ref={amount} value={mode()==="local"?"0.001":""} inputmode="decimal" placeholder="0.001"/></label><button class="primary wide" onClick={runETH} disabled={Boolean(busy())}>{busy()||"Send + rotate key"}</button></section><aside class="activity"><h2>Signing rotation history</h2><p class="history-intro">Your wallet address stays fixed. Each action advances the signer.</p><For each={activity()}>{item=><div class="activity-row"><span>{item.index===rotation()?"Latest":"Done"}</span><p><b>{item.label}</b><small>{item.usedSigner?`Key ${item.index} → Key ${item.index+1}`:`Key ${item.index+1} active`}</small><Show when={item.usedSigner}><code>Used signer · {short(item.usedSigner!)}</code></Show></p>{item.hash?<a href={`https://sepolia.etherscan.io/tx/${item.hash}`} target="_blank" rel="noreferrer">View</a>:<small>Preview</small>}</div>}</For></aside></div></section></Show>
+ <Show when={view()==="wallet"&&walletAddress()}><section class="wallet"><div class="wallet-top"><div><span class="status-dot">{mode()==="local"?"Local preview · simulated, not broadcast":"Ethereum Sepolia · live"}</span><h1>{Number(formatEther(walletBalance())).toFixed(4)} ETH</h1></div><div class="rotation-card"><span>OWNER ROTATION</span><strong>Key {rotation()+1}</strong><p>Active underneath your stable address</p><div><i style={{width:`${Math.min(100,(rotation()+1)*8)}%`}}/></div></div></div><div class="stable"><span>Stable wallet address</span><button class="stable-copy" aria-label="Copy stable wallet address" onClick={()=>copy(walletAddress())}><code>{walletAddress()}</code><span>Copy</span></button><b>Does not change</b></div><Show when={mode()==="local"}><section class="signer-sequence"><div><span>Preview signing sequence</span><small>Simulated locally · wallet address stays fixed</small></div><div class="signer-steps"><div><small>Last signer</small><code>{activity()[0]?.usedSigner?short(activity()[0]?.usedSigner!):"—"}</code></div><i>→</i><div class="current"><small>Active signer · Key {rotation()+1}</small><code>{owner()&&short(owner()!)}</code></div><i>→</i><div><small>Next signer · Key {rotation()+2}</small><code>{nextSigner()&&short(nextSigner()!)}</code></div></div></section></Show><div class="wallet-grid"><section class="actions-panel"><h2>Send ETH</h2><label>Recipient<input ref={to} value={mode()==="local"?"justindrake.eth":""} placeholder={mode()==="local"?"justindrake.eth":"0x…"}/></label><label>Amount<input ref={amount} value={mode()==="local"?"0.001":""} inputmode="decimal" placeholder="0.001"/></label><button class="primary wide" onClick={runETH} disabled={Boolean(busy())}>{busy()||"Send + rotate key"}</button></section><aside class="activity"><h2>Signing rotation history</h2><p class="history-intro">Your wallet address stays fixed. Each action advances the signer.</p><For each={activity()}>{item=><div class="activity-row"><span>{item.index===rotation()?"Latest":"Done"}</span><p><b>{item.label}</b><small>{item.usedSigner?`Key ${item.index} → Key ${item.index+1}`:`Key ${item.index+1} active`}</small><Show when={item.usedSigner}><code>Used signer · {short(item.usedSigner!)}</code></Show></p>{item.hash?<a href={`https://sepolia.etherscan.io/tx/${item.hash}`} target="_blank" rel="noreferrer">View</a>:<small>Preview</small>}</div>}</For></aside></div></section></Show>
  <Show when={view()==="advanced"}><section class="advanced"><button class="back" onClick={()=>go("landing")}>← Back</button><h1>Choose how to protect the setup key.</h1><p>Each method creates a stable wallet address with automatic owner rotation.</p><div class="option-list"><button onClick={beginSepolia}><span>Ethereum Sepolia</span><small>Live testnet · Google Cloud faucet</small><b>Use testnet</b></button><button onClick={createPhrase}><span>Recovery phrase</span><small>24 words · optional check and password</small><b>Set up</b></button><button onClick={()=>{setMode("sepolia");go("load")}}><span>Load existing wallet</span><small>Encrypted vault or 24 words</small><b>Load</b></button><button disabled><span>Ledger</span><small>Hardware setup · compatibility verification in progress</small><b>Soon</b></button><button disabled><span>Trezor</span><small>Hardware setup · compatibility verification in progress</small><b>Soon</b></button><button disabled><span>EVM wallet</span><small>Manual next-key proof required</small><b>Soon</b></button></div></section></Show>
  <Show when={view()==="phrase"}><section class="secure"><span class="status-dot">Secure setup</span><h1>Write down these 24 words.</h1><p>Keep them offline. They recover every owner key in sequence.</p><ol class="words" ref={phraseList}/><label class="check"><input type="checkbox" checked={confirmed()} onChange={e=>setConfirmed(e.currentTarget.checked)}/> I saved the phrase offline.</label><div class="secure-actions"><button class="primary" disabled={!confirmed()} onClick={()=>go("confirm")}>Check my backup</button><button disabled={!confirmed()} onClick={()=>go("vault")}>Skip check</button></div></section></Show>
  <Show when={view()==="confirm"}><section class="secure"><h1>Quick recovery check.</h1><p>Enter words 3, 9, and 18.</p><div class="confirm"><For each={[3,9,18]}>{(n,i)=><label>Word {n}<input ref={el=>confirmInputs[i()]=el}/></label>}</For></div><button class="primary" onClick={verifyWords}>Continue</button></section></Show>

diff --git a/tests/e2e/web.e2e.ts b/tests/e2e/web.e2e.ts
@@ -39,6 +39,8 @@ test("local preview opens the wallet and rotates without network access", async 
   await page.goto("/");
   await page.getByRole("button", { name: "Try it" }).first().click();
   await expect(page.getByText("Local preview · simulated, not broadcast")).toBeVisible();
+  await expect(page.getByRole("button", { name: "Copy stable wallet address" })).toBeVisible();
+  await expect(page.locator(".address-copy")).toHaveCount(0);
   await expect(page.getByRole("button", { name: "Token" })).toHaveCount(0);
   await expect(page.getByRole("button", { name: "Wall", exact: true })).toHaveCount(0);
   await expect(page.getByLabel("Recipient")).toHaveValue("justindrake.eth");
